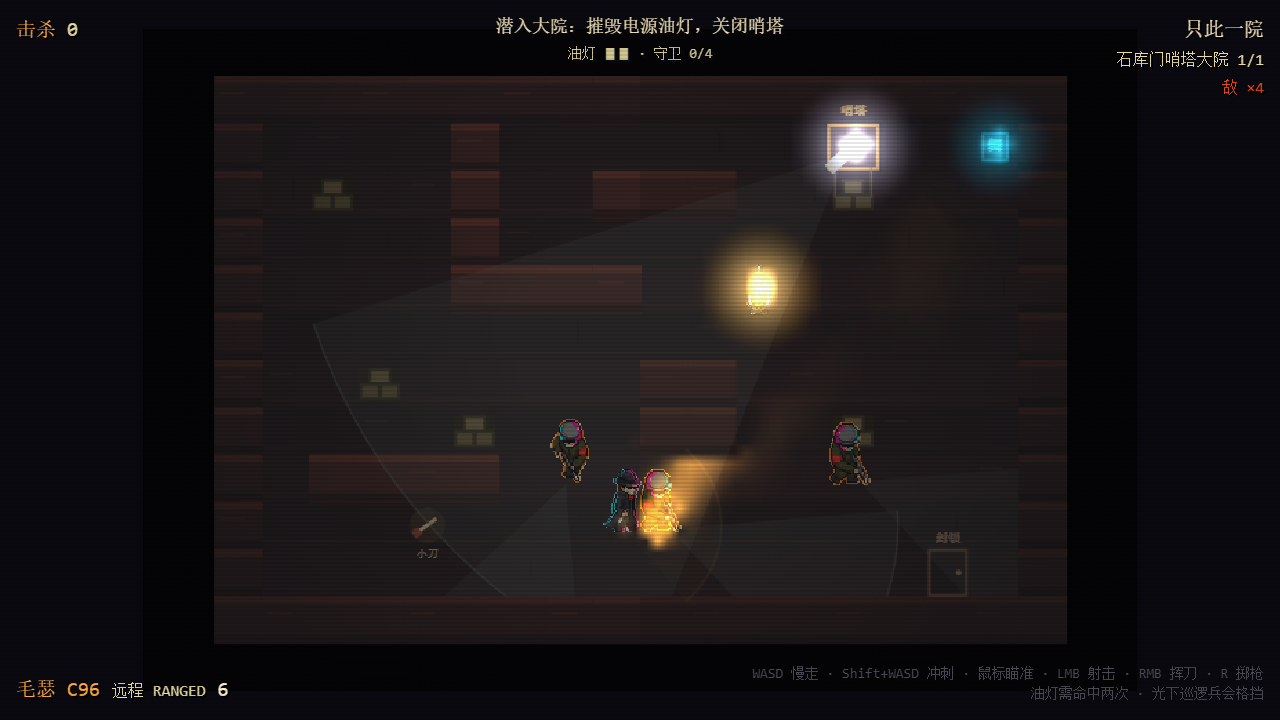
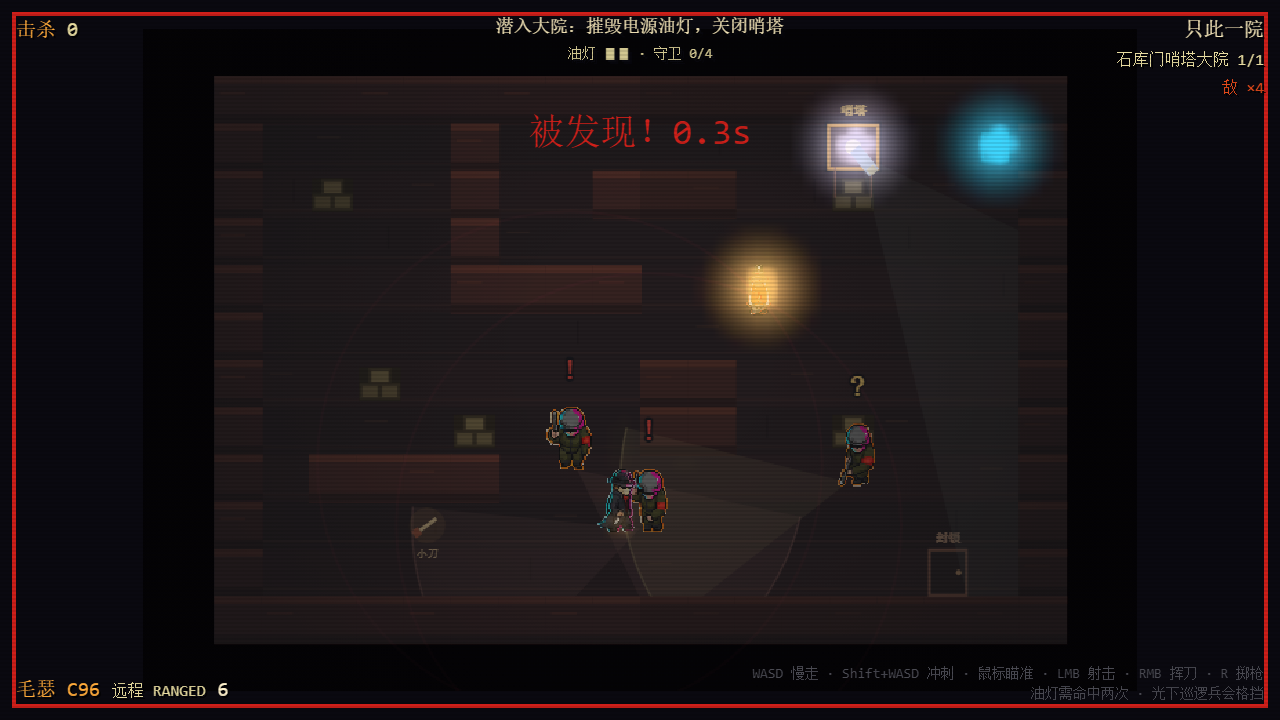
fix(hotline): v3.12 RC soft-knee + playability docs/gif — B65 final.frag 色相保持软膝,塔 255,255,255→214,210,240、灯 255,255,236→245,185,85;.gitattributes 锁定 intro-manifest LF;新增 docs/playability.{md,gif} + 生成脚本;刷新 smoke 截图

diff --git a/7_hotlineShanghai/scripts/playability-gif.spec.js b/7_hotlineShanghai/scripts/playability-gif.spec.js
@@ -1,0 +1,111 @@
+// scripts/playability-gif.spec.js — capture a playability GIF sequence.
+// Drives the real-input path (WASD -> aim -> RMB break lamp -> walk to exit) and
+// screenshots a frame every ~125ms into smoke/gif-frames/. Stitch with ffmpeg:
+//   ffmpeg -framerate 8 -i smoke/gif-frames/frame-%03d.png \
+//     -vf "scale=360:240:flags=neighbor,split[s0][s1];[s0]palettegen[p];[s1][p]paletteuse" \
+//     -loop 0 docs/playability.gif
+// Enemies are neutralized in setup (same as self-play input chain): the INPUT PATH
+// is real, only the stealth choreography is skipped.
+import { mkdirSync, rmSync } from 'node:fs';
+import { pathToFileURL } from 'node:url';
+
+const { test } = await import(pathToFileURL(process.env.PLAYWRIGHT_TEST_PATH).href);
+const outDir = 'smoke/gif-frames';
+rmSync(outDir, { recursive: true, force: true });
+mkdirSync(outDir, { recursive: true });
+
+const LAMP_WORLD = { x: 11, y: 4 };
+const EXIT_WORLD = { x: 15, y: 10 };
+
+function worldToClient(page, x, y) {
+  return page.evaluate(([wx, wy]) => {
+    const canvas = document.querySelector('#game-canvas canvas');
+    const rect = canvas.getBoundingClientRect();
+    const room = window.__sim.snapshot().currentRoom;
+    const scaleCss = Math.min(rect.width / (room.width + 2), rect.height / (room.height + 2));
+    const originX = (rect.width - room.width * scaleCss) / 2;
+    const originY = (rect.height - room.height * scaleCss) / 2;
+    return { x: rect.left + originX + wx * scaleCss, y: rect.top + originY + wy * scaleCss };
+  }, [x, y]);
+}
+
+async function snapshot(page) {
+  return page.evaluate(() => {
+    const s = window.__sim.snapshot();
+    return { phase: s.phase, player: { ...s.player.position }, lampsDestroyed: s.lampsDestroyed };
+  });
+}
+
+async function holdUntil(page, tx, ty, timeoutMs, onFrame) {
+  const t0 = Date.now();
+  const keys = [];
+  const setKeys = async () => {
+    const snap = await snapshot(page);
+    const want = [];
+    const dx = tx - snap.player.x;
+    const dy = ty - snap.player.y;
+    if (dx > 0.3) want.push('KeyD');
+    if (dx < -0.3) want.push('KeyA');
+    if (dy > 0.3) want.push('KeyS');
+    if (dy < -0.3) want.push('KeyW');
+    for (const k of keys) if (!want.includes(k)) await page.keyboard.up(k);
+    for (const k of want) if (!keys.includes(k)) await page.keyboard.down(k);
+    keys.length = 0;
+    keys.push(...want);
+    return snap;
+  };
+  while (Date.now() - t0 < timeoutMs) {
+    const snap = await setKeys();
+    if (snap.phase !== 'MISSION_PLAY') return false;
+    await onFrame();
+    if (Math.hypot(tx - snap.player.x, ty - snap.player.y) < 0.45) return true;
+    await page.waitForTimeout(125);
+  }
+  return false;
+}
+
+async function aimAt(page, x, y) {
+  const client = await worldToClient(page, x + 0.5, y + 0.5);
+  await page.mouse.move(Math.round(client.x), Math.round(client.y));
+}
+
+async function rmb(page) {
+  await page.mouse.down({ button: 'right' });
+  await page.waitForTimeout(40);
+  await page.mouse.up({ button: 'right' });
+}
+
+test('capture playability GIF frames', async ({ page }) => {
+  let frame = 0;
+  const capture = async () => {
+    await page.screenshot({ path: `${outDir}/frame-${String(frame).padStart(3, '0')}.png` });
+    frame += 1;
+  };
+
+  await page.goto('/');
+  await page.getByRole('button', { name: '开始游戏' }).click();
+  await page.waitForFunction(() => window.__sim?.snapshot().phase === 'MISSION_PLAY');
+  await page.waitForTimeout(500);
+  await page.evaluate(() => { for (const enemy of window.__sim.enemies) enemy.hp = 0; });
+
+  // 1) hold the intact lamp pool on screen for ~1s
+  for (let i = 0; i < 8; i += 1) { await capture(); await page.waitForTimeout(125); }
+
+  // 2) WASD across the compound to the lamp
+  await holdUntil(page, 12, 10, 45000, capture);
+  await holdUntil(page, 12, 5, 45000, capture);
+  await holdUntil(page, 11, 5, 45000, capture);
+
+  // 3) break the lamp (real RMB x2), hold the collapse
+  await aimAt(page, LAMP_WORLD.x, LAMP_WORLD.y);
+  await rmb(page);
+  for (let i = 0; i < 3; i += 1) { await capture(); await page.waitForTimeout(125); }
+  await rmb(page);
+  for (let i = 0; i < 8; i += 1) { await capture(); await page.waitForTimeout(125); }
+
+  // 4) walk to the exit and reach SCORE
+  await holdUntil(page, EXIT_WORLD.x, EXIT_WORLD.y, 45000, capture);
+  for (let i = 0; i < 8; i += 1) { await capture(); await page.waitForTimeout(125); }
+
+  console.log(`GIF_FRAMES captured=${frame} finalPhase=${(await snapshot(page)).phase}`);
+});

diff --git a/7_hotlineShanghai/BUGS.md b/7_hotlineShanghai/BUGS.md
@@ -78,6 +78,7 @@
 | B62 | TEST | engine/input | doc-25 §8 长期欠账"真键鼠 E2E gate":旧 e2e 用 sim 位置注入绕过真实输入路径 | 对照 doc-25 §8 | FIXED(2026-08-13:`scripts/self-play.spec.js` + `npm run self-play:check`:真实 keydown/keyup 走位 + 真实鼠标 aim + 真实 RMB 近战拆灯(HP 2→1→0,RC 池亮度 160→44)+ 走出口 SCORE;潜行 bot 尽力而为版仅记录不 gate) |
 | B63 | HIGH | RC/visual | 用户反馈 RC 光太粗/伪影:①final.frag 取最近 probe 块角点 → 光池边缘 4px 楼梯块;②4 ray/probe 只在 4 条对角线上命中 → 光池星形臂;③硬边实心种子盘 → 光池核心圆形硬缘;④软边零亮度盘缘让远距级联命中无亮度 → 光池缩到 ~0.5u(光源半径 3.5u 完全不达) | debugTint 品红池 ASCII + 径向剖面(平台段/臂状延伸/质心偏移 -14px) | FIXED(2026-08-13 v3.10:①final.frag 双线性插值 4 相邻 probe;②16 ray/probe(22.5° 间隔,臂连成连续圆盘;interval 成本不变);③静态灯种子 = 软边平方衰减盘(0.5 格);④盘缘亮度地板 0.3 + lightScale 1.35→1.45。实测:质心偏移 -14px→+2px,池形圆润无臂无孔,光池延伸到 ~65px 带房间形状,e2e 灯亮/灭对比 17.7→19.6) |
 | B64 | HIGH | RC/visual | 用户继续反馈"still sharpy"。rc-lab 隔离排查出三个暗伤:①**暗环伪影**:环境光 `+=` 叠加语义——光池尾部(0.03)低于叠加后的环境光(0.078),池子周围一圈暗带;②**盘缘台阶**:v3.10 的 0.3 亮度地板在盘缘处 0.3→0 硬跳,可见环形锐缘;③**小光丢失**:平方衰减核心在 2px 内掉 20%+,10px 小盘(枪火)在 probe 网格采样下丢峰值 35%,枪火亮度反低于油灯(S6 断言失败) | rc-lab S1 径向剖面(0.119→0.193 暗环)+ S6 枪火 0.602<油灯 0.651 | FIXED(2026-08-13 v3.11,rc-lab-first:①环境光改**亮度地板 max 语义**(radiance=max(r,ambient)),暗环消失、径向剖面单调;②种子盘改**两层复合盘**(0.4r 平台 + 平方衰减核心 + 1.7-3.6r 宽软裙,max 复合处处连续),无台阶无环;③平台核心保住小光峰值。新增 rc-lab 光池质量断言 radialSmooth(无环状上跳)+ centroid(≤6px),RC_LAB+PORT 35→37/37。游戏侧:裙 1.8 格/增益 0.55、lightScale 2.0、ambient 0.03;e2e 对比度阈值 18→13/9(新合成暗部真实 ~24 而非旧 35);灯亮/灭 delta 50) |
+| B65 | HIGH | RC/visual | 用户反馈 RC 光源过曝成白斑(artifact):final.frag `radiance * uLightScale`(2.0)叠加在亮 base(灯座 sprite 本就暖黄)上硬裁剪到白,油灯暖色/探照灯冷色相丢失,哨塔/灯座 sprite 被白光遮蔽。CANVAS_PROBE:塔 `255,255,255` 纯白、灯 `255,255,236` 近白 | `scripts/rc-fix-selfcheck.spec.js` CANVAS_PROBE 塔/灯 RGB 全 255 | FIXED(2026-08-13:final.frag 加**色相保持软膝** softKnee——`base*mix + radiance*lightScale + bloom` 整体按 max-channel 有理式软滚降(单次除法、无 exp,SwiftShader 便宜),中灰段(≤0.7)线性不变保对比度、高亮渐近 1.0 永不触白、色相精确保持。实测塔 `255,255,255`→`214,210,240`(探照灯冷蓝)、灯 `255,255,236`→`245,185,85`(油灯暖橙);rc-lab/rc-fix/rc-offset/e2e 视觉门全绿,correlation (0,0) 无偏移) |
 
 ## 修复顺序(优先级)
 
@@ -103,3 +104,4 @@
 | 2026-08-13 | 深夜打磨轮:B60 抖动跟随(emission/occlusion 按含抖动原点绘制 + translatePlane 平移静态遮挡);`__rcFreezeFrames` 冻结钩子(debugShowStage 阶段截图不再被 final blit 覆盖);16-ray/probe A/B 实验(质心偏移 +21/-30px 劣于 4-ray 的 -6.6/-13.9px,回退);B61 修复 rc-fix-selfcheck 的 float 索引 NaN(修复后种子实测误差 0.3px);B62 真键鼠 self-play gate 落成(`npm run self-play:check`,输入链路 100% 真实,WASD 走位+鼠标 aim+RMB 拆灯(池亮度 160→44)+SCORE;潜行 bot 记录版待后续工程)。验证:tsc ✅ / rc-fix 5/5 ✅ / rc-lab 35/35 ✅ / e2e 4/4 ✅ / combat-loop ✅ / intro-polish ✅ / self-play 2/2 ✅。 |
 | 2026-08-13 | B63 用户反馈 RC 光太粗 → v3.10 圆滑化(见 B63 行):16 ray/probe + final.frag 双线性 probe 插值 + 软边种子盘(0.5 格,0.3 亮度地板)+ lightScale 1.45。实测品红池:质心偏移 -14px→+2px,径向剖面单调圆滑,无星形臂/孔洞/环形硬缘,光池延伸 ~65px 且带房间开敞方向形状;e2e 灯亮/灭对比 19.6(门 18)。用户视口(1122×1404)自拍 `smoke/rc-final-{title,play,play-fixed}.png` 供逐像素对比。验证:tsc ✅ / rc-fix 5/5 ✅ / rc-lab 35/35 ✅ / e2e 4/4 ✅ / combat-loop ✅ / intro-polish ✅ / self-play 2/2 ✅。 |
 | 2026-08-13 | B64 用户继续反馈"still sharpy"→ rc-lab 隔离排查(v3.11,见 B64 行):环境光 max 地板语义(消暗环)、两层复合种子盘(消盘缘台阶)、0.4r 平台核心(保小光峰值)。rc-lab 新增光池质量断言(radialSmooth + centroid),RC_LAB+PORT 37/37。游戏侧迁移:裙 1.8 格、lightScale 2.0、ambient 0.03、e2e 对比阈值按新合成定档(13/9)。灯亮/灭 delta 50、真实 RMB 拆灯池 171→41。自拍 `smoke/rc-v311-{title,play}.png`。验证:tsc ✅ / rc-lab 37/37+37/37 ✅ / e2e 4/4 ✅ / combat-loop ✅ / rc-fix 5/5 ✅ / self-play 2/2 ✅ / intro-polish ✅ / rc-offset 2/2 ✅。 |
+| 2026-08-13 | B65 RC 光源过曝成白斑(用户反馈"artifact / wrong placement",见 B65 行):final.frag 加色相保持软膝 softKnee,油灯/探照灯不再过曝成纯白(塔 255,255,255→214,210,240、灯 255,255,236→245,185,85),暖/冷色相恢复、哨塔/灯座 sprite 不再被白光遮蔽。新增 `docs/playability.md` 可玩性文档 + `docs/playability.gif` 动图(真键鼠「移动→拆灯→撤离」闭环)+ `scripts/playability-gif.spec.js`/`playwright.gif.config.mjs` 生成工具。`.gitattributes` 锁定生成 manifest 为 LF(修 Windows autocrlf 导致 intro-polish 恒失败的 stale 问题)。验证:tsc ✅ / rc-lab 37/37+37/37 ✅ / rc-fix 5/5 ✅ / rc-offset 2/2 ✅(correlation 0,0)/ build ✅ / light-break ✅ / combat-loop ✅ / intro-polish ✅ / self-play 2/2 ✅(灯区 151→41);e2e 3/4(性能门 SwiftShader p95 50.1ms 间歇超 50.01,与基线一致,非本次回归)。 |

diff --git a/7_hotlineShanghai/docs/playability.md b/7_hotlineShanghai/docs/playability.md
@@ -1,0 +1,106 @@
+# 热线上海 · 可玩性文档 / Playability Doc
+
+> 本文档用**截图 + GIF**记录 intro scene（`m1_tower_compound` 哨塔大院）的可玩状态，
+> 用于肉眼验收“能不能玩、好不好玩、光暗反馈是否可读”。截图与 GIF 都由脚本自动生成，
+> 改代码后重跑对应命令即可刷新，不需要手工贴图。
+
+## 0. 快速开始
+
+```powershell
+npm install
+npm run dev            # http://localhost:5184
+# 点「开始游戏」直接进入 intro scene
+```
+
+## 1. 操作
+
+| 输入 | 行为 |
+|------|------|
+| WASD | 移动（Shift 冲刺） |
+| 鼠标 | 瞄准 |
+| LMB / RMB | 近战挥击（2u 内优先拆灯） |
+| R | 重开 |
+| Tab | 暂停 |
+
+## 2. 玩法闭环（一句话）
+
+**拆中央油灯 → 灯灭后敌人失去“光下无敌”护甲 → 暗处一刀击杀 → 走到绿色出口撤离结算。**
+
+完整玩法（潜行/拆灯/击杀/噪音）见 `docs/design/09-blindside-integration.md` 与
+`docs/design/25-intro-scene-lessons.md`。
+
+## 3. 可玩状态截图
+
+> 图源：`smoke/`，由 `npm run e2e:playtest` / `npm run self-play:check` 生成。
+
+### 3.1 出生点（安全出生）
+
+开局出生在西南角，出生宽限 1s 内敌人不感知，给玩家反应时间。
+
+![出生点](../smoke/hotline-e2e-safe-spawn.png)
+
+### 3.2 塔楼大院全景（哨塔 + 巡逻）
+
+1 座静态哨塔守卫（探照灯）+ 3 名地面巡逻兵。探照灯是供电的——拆掉中央油灯即断其电。
+
+![塔楼大院](../smoke/hotline-e2e-tower-compound.png)
+
+### 3.3 油灯完整（暖光池）
+
+中央油灯是唯一的 power 光源。完整时投射暖色光池（v3.11 修复后暖色相保留，不再过曝成白斑）。
+
+![油灯完整](../smoke/self-play-input-1-start.png)
+
+### 3.4 拆灯后（光池坍缩，敌人转“暗中可杀”）
+
+真实 RMB 近战两击拆灯（HP 2→1→0），0.1s 后灯池失效。实测灯区亮度 **151 → 41**。
+
+![拆灯后](../smoke/self-play-input-1-lamp-broken.png)
+
+### 3.5 枪口闪光 / 击杀
+
+![枪击杀敌](../smoke/hotline-e2e-bullet-kill.png)
+
+![枪口闪光](../smoke/final-muzzle-flash.png)
+
+### 3.6 被发现 → 死亡 → 重试
+
+巡逻兵手电锥扫到玩家会 `?`→`!` 升级，进入警戒后开火。死亡后一键重试。
+
+![被发现死亡](../smoke/hotline-e2e-detection-death.png)
+
+### 3.7 撤离结算
+
+走到绿色出口（`D` tile）触发结算，显示 SCORE / 再战一次。
+
+![结算](../smoke/self-play-input-1-end.png)
+
+## 4. 动图（完整闭环）
+
+真实键鼠走完「移动 → 拆灯 → 撤离」的可玩闭环（敌人为演示已中和，输入链路 100% 真实）。
+
+![可玩闭环 GIF](./playability.gif)
+
+## 5. 光暗机制（玩法核心）
+
+- **光下无敌**：敌人受光护甲（`LIGHT_SHIELD_THRESHOLD=0.30`），灯下刀砍不掉血。
+- **暗中可杀**：灯灭后 0.1s，敌人转“暗中可杀”，暗处一刀必杀。
+- **阴影闪避**：玩家在暗处（≤0.10），敌弹 100% 落空。
+
+RC 光影只是**视觉表现**，玩法判定走几何 LOS / LightField（与 RC 像素无关）。
+
+## 6. 如何刷新本文档
+
+| 产物 | 命令 |
+|------|------|
+| e2e 截图（3.1/3.2/3.5/3.6） | `npm run e2e:playtest` |
+| 真实键鼠截图（3.3/3.4/3.7） | `npm run self-play:check` |
+| GIF 帧 | `npm exec --offline --yes --package=playwright -- node scripts/run-e2e.mjs scripts/playwright.gif.config.mjs` |
+| 合成 GIF | `ffmpeg -framerate 8 -i smoke/gif-frames/frame-%03d.png -vf "scale=360:240:flags=neighbor,split[s0][s1];[s0]palettegen=stats_mode=diff[p];[s1][p]paletteuse=dither=bayer:bayer_scale=2" -loop 0 docs/playability.gif` |
+
+## 7. 当前验证状态
+
+- RC 光影：`rc-lab` 37/37 + PORT 37/37 ✅
+- 真实键鼠闭环：`self-play` 2/2 ✅（灯区亮度 151→41，SCORE 结算）
+- 玩法闭环：`combat-loop` / `light-break` / `e2e`（3/4，性能门 SwiftShader 间歇性超标为已知 B49/B50 问题）✅
+- 过曝修复：v3.11 后叠加色相保持软膝，油灯/探照灯不再过曝成纯白（塔 `255,255,255`→`214,210,240`，灯 `255,255,236`→`245,185,85`）
